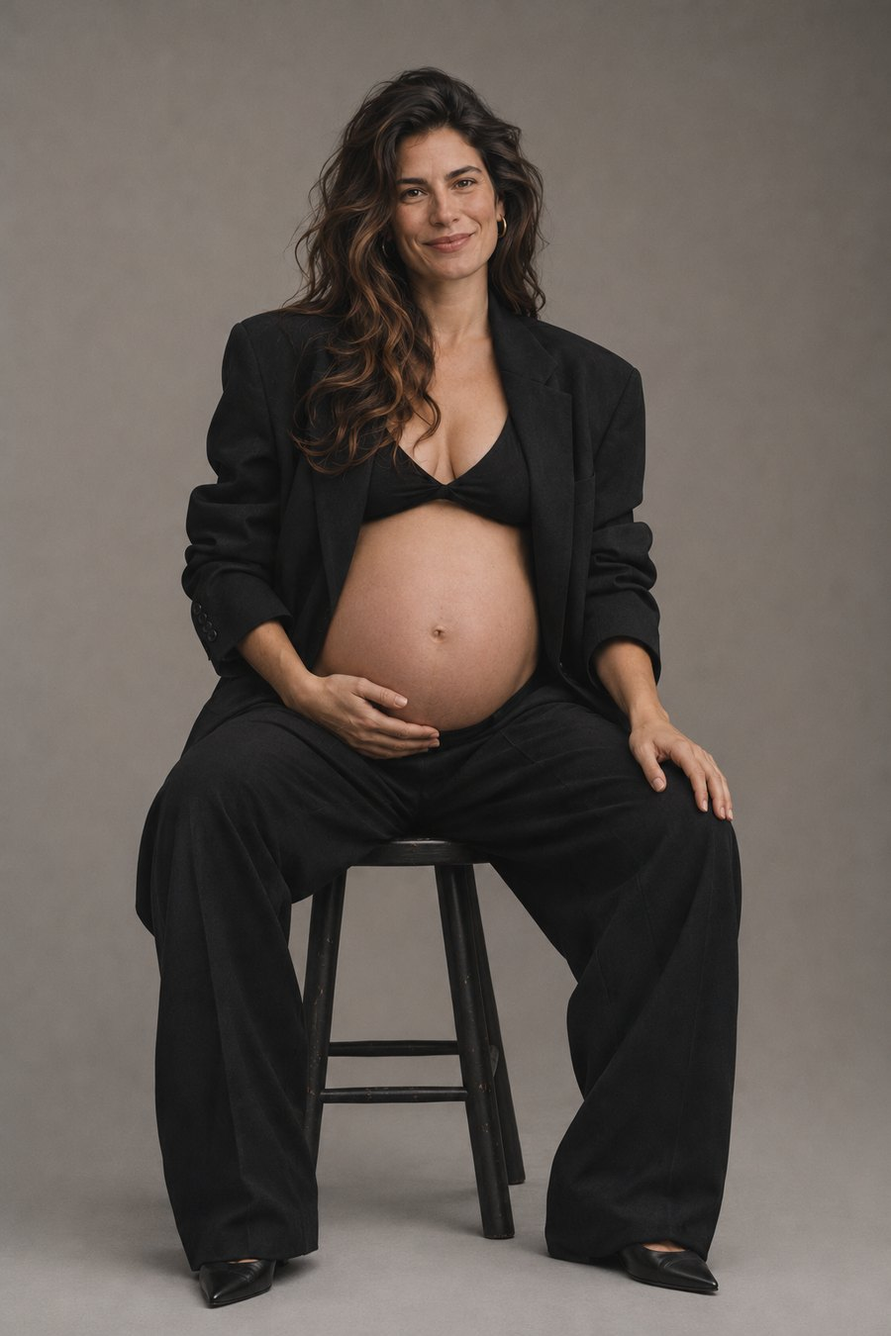
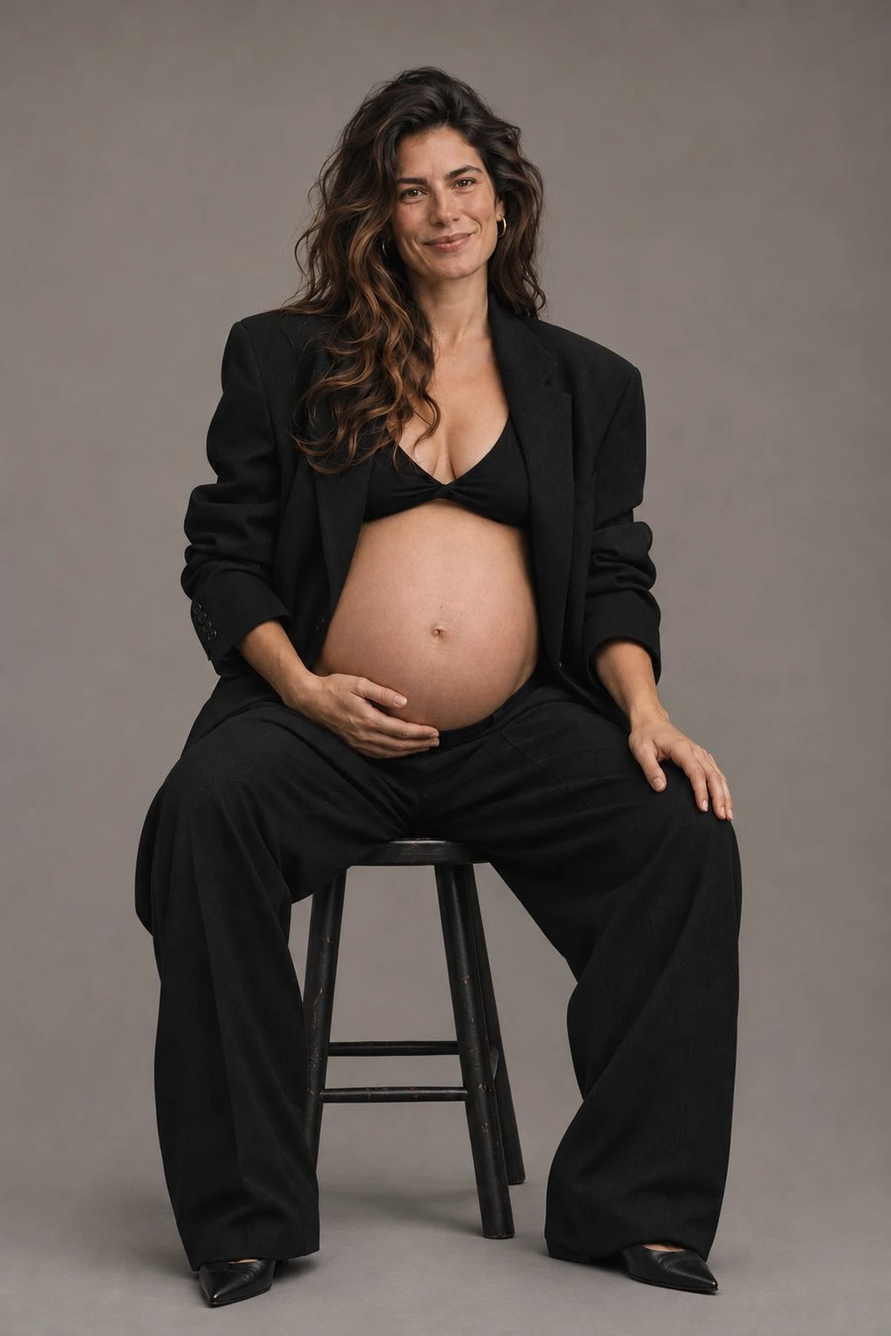
Беременность: цветные фото в пиджаке заменены на новые

Changed region(s): [[0.6222, 0.9333, 0.6844, 0.9644]]

diff --git a/site/kz/index.html b/site/kz/index.html
@@ -42,7 +42,7 @@ var t=document.querySelector('meta[name="theme-color"]');if(t)t.content=p[1]}();
 <link rel="preconnect" href="https://fonts.googleapis.com">
 <link rel="preconnect" href="https://fonts.gstatic.com" crossorigin>
 <link href="https://fonts.googleapis.com/css2?family=Inter:wght@400;500;600;700;800&family=Unbounded:wght@900&display=swap" rel="stylesheet">
-<link rel="stylesheet" href="../assets/style.css?v=1794802931">
+<link rel="stylesheet" href="../assets/style.css?v=1794803001">
 </head>
 <body id="top" class="is-home">
 <header class="top">
@@ -61,9 +61,9 @@ var t=document.querySelector('meta[name="theme-color"]');if(t)t.content=p[1]}();
 
 <div class="home" id="home">
 <section class="stage">
-  <div class="splash"><picture class="tile"><source media="(max-width: 760px)" srcset="../photos/home/02.jpg?v=1794802931"><img src="../photos/home/01.jpg?v=1794802931" alt="Veronika Kim"></picture></div>
-  <h1 class="wordmark"><picture><source media="(max-width: 760px)" data-srcset="../assets/wordmark-v1.png?v=1794802931" width="678" height="1692"><img data-src="../assets/wordmark-1.png?v=1794802931" alt="Veronika Kim" width="1692" height="678"></picture><script>!function(p){var n=document.documentElement.getAttribute("data-logo")||1,s=p.firstChild,i=p.lastChild;s.srcset=s.getAttribute("data-srcset").replace("-v1.","-v"+n+".");i.src=i.getAttribute("data-src").replace("-1.","-"+n+".")}(document.currentScript.previousElementSibling)</script><noscript><img src="../assets/wordmark-1.png?v=1794802931" alt="Veronika Kim" width="1692" height="678"></noscript></h1>
-  <div class="drift"><div class="drift-item"><a href="../kz/art/editorial/"><img src="../photos/drift/editorial.jpg?v=1794802931" width="315" height="560" alt="Авторлық портрет" decoding="async"></a></div><div class="drift-item"><a href="../kz/book/mountains/"><img src="../photos/drift/mountains.jpg?v=1794802931" width="560" height="373" alt="Таудағы дрон" decoding="async"></a></div><div class="drift-item"><a href="../kz/book/kids/"><img src="../photos/drift/kids.jpg?v=1794802931" width="400" height="560" alt="Балалар" decoding="async"></a></div><div class="drift-item"><a href="../kz/book/underwater/"><img src="../photos/drift/underwater.jpg?v=1794802931" width="448" height="560" alt="Су астында" decoding="async"></a></div><div class="drift-item"><a href="../kz/book/portrait/"><img src="../photos/drift/portrait.jpg?v=1794802931" width="420" height="560" alt="Портрет" decoding="async"></a></div><div class="drift-item"><a href="../kz/architecture/"><img src="../photos/drift/architecture.jpg?v=1794802931" width="560" height="405" alt="Сәулет және дрон" decoding="async"></a></div><div class="drift-item"><a href="../kz/book/love-story/"><img src="../photos/drift/love-story.jpg?v=1794802931" width="560" height="373" alt="Love story" decoding="async"></a></div><div class="drift-item"><a href="../kz/art/travel/"><img src="../photos/drift/travel.jpg?v=1794802931" width="560" height="373" alt="Саяхат" decoding="async"></a></div></div>
+  <div class="splash"><picture class="tile"><source media="(max-width: 760px)" srcset="../photos/home/02.jpg?v=1794803001"><img src="../photos/home/01.jpg?v=1794803001" alt="Veronika Kim"></picture></div>
+  <h1 class="wordmark"><picture><source media="(max-width: 760px)" data-srcset="../assets/wordmark-v1.png?v=1794803001" width="678" height="1692"><img data-src="../assets/wordmark-1.png?v=1794803001" alt="Veronika Kim" width="1692" height="678"></picture><script>!function(p){var n=document.documentElement.getAttribute("data-logo")||1,s=p.firstChild,i=p.lastChild;s.srcset=s.getAttribute("data-srcset").replace("-v1.","-v"+n+".");i.src=i.getAttribute("data-src").replace("-1.","-"+n+".")}(document.currentScript.previousElementSibling)</script><noscript><img src="../assets/wordmark-1.png?v=1794803001" alt="Veronika Kim" width="1692" height="678"></noscript></h1>
+  <div class="drift"><div class="drift-item"><a href="../kz/art/editorial/"><img src="../photos/drift/editorial.jpg?v=1794803001" width="315" height="560" alt="Авторлық портрет" decoding="async"></a></div><div class="drift-item"><a href="../kz/book/mountains/"><img src="../photos/drift/mountains.jpg?v=1794803001" width="560" height="373" alt="Таудағы дрон" decoding="async"></a></div><div class="drift-item"><a href="../kz/book/kids/"><img src="../photos/drift/kids.jpg?v=1794803001" width="400" height="560" alt="Балалар" decoding="async"></a></div><div class="drift-item"><a href="../kz/book/underwater/"><img src="../photos/drift/underwater.jpg?v=1794803001" width="448" height="560" alt="Су астында" decoding="async"></a></div><div class="drift-item"><a href="../kz/book/portrait/"><img src="../photos/drift/portrait.jpg?v=1794803001" width="420" height="560" alt="Портрет" decoding="async"></a></div><div class="drift-item"><a href="../kz/architecture/"><img src="../photos/drift/architecture.jpg?v=1794803001" width="560" height="405" alt="Сәулет және дрон" decoding="async"></a></div><div class="drift-item"><a href="../kz/book/love-story/"><img src="../photos/drift/love-story.jpg?v=1794803001" width="560" height="373" alt="Love story" decoding="async"></a></div><div class="drift-item"><a href="../kz/art/travel/"><img src="../photos/drift/travel.jpg?v=1794803001" width="560" height="373" alt="Саяхат" decoding="async"></a></div></div>
 </section>
 <div class="home-content">
 <p class="statement">Маған мінсіз адамдар керек емес. <em>Маған тірі адамдар қызық.</em></p>
@@ -90,6 +90,6 @@ var t=document.querySelector('meta[name="theme-color"]');if(t)t.content=p[1]}();
   <div class="foot-bottom"><span>© 2026 Veronika Kim. Барлық құқықтар қорғалған</span><a href="#top">Жоғарыға</a></div>
 </footer>
 <div class="lb" role="dialog" aria-modal="true"><span class="c"></span><button class="x">Жабу</button><button class="p">← Артқа</button><img alt=""><button class="nx">Алға →</button></div>
-<script src="../assets/app.js?v=1794802931"></script>
+<script src="../assets/app.js?v=1794803001"></script>
 </body>
 </html>

diff --git a/site/en/index.html b/site/en/index.html
@@ -42,7 +42,7 @@ var t=document.querySelector('meta[name="theme-color"]');if(t)t.content=p[1]}();
 <link rel="preconnect" href="https://fonts.googleapis.com">
 <link rel="preconnect" href="https://fonts.gstatic.com" crossorigin>
 <link href="https://fonts.googleapis.com/css2?family=Inter:wght@400;500;600;700;800&family=Unbounded:wght@900&display=swap" rel="stylesheet">
-<link rel="stylesheet" href="../assets/style.css?v=1794802931">
+<link rel="stylesheet" href="../assets/style.css?v=1794803001">
 </head>
 <body id="top" class="is-home">
 <header class="top">
@@ -61,9 +61,9 @@ var t=document.querySelector('meta[name="theme-color"]');if(t)t.content=p[1]}();
 
 <div class="home" id="home">
 <section class="stage">
-  <div class="splash"><picture class="tile"><source media="(max-width: 760px)" srcset="../photos/home/02.jpg?v=1794802931"><img src="../photos/home/01.jpg?v=1794802931" alt="Veronika Kim"></picture></div>
-  <h1 class="wordmark"><picture><source media="(max-width: 760px)" data-srcset="../assets/wordmark-v1.png?v=1794802931" width="678" height="1692"><img data-src="../assets/wordmark-1.png?v=1794802931" alt="Veronika Kim" width="1692" height="678"></picture><script>!function(p){var n=document.documentElement.getAttribute("data-logo")||1,s=p.firstChild,i=p.lastChild;s.srcset=s.getAttribute("data-srcset").replace("-v1.","-v"+n+".");i.src=i.getAttribute("data-src").replace("-1.","-"+n+".")}(document.currentScript.previousElementSibling)</script><noscript><img src="../assets/wordmark-1.png?v=1794802931" alt="Veronika Kim" width="1692" height="678"></noscript></h1>
-  <div class="drift"><div class="drift-item"><a href="../en/art/editorial/"><img src="../photos/drift/editorial.jpg?v=1794802931" width="315" height="560" alt="Art portrait" decoding="async"></a></div><div class="drift-item"><a href="../en/book/mountains/"><img src="../photos/drift/mountains.jpg?v=1794802931" width="560" height="373" alt="Mountains &amp; drone" decoding="async"></a></div><div class="drift-item"><a href="../en/book/kids/"><img src="../photos/drift/kids.jpg?v=1794802931" width="400" height="560" alt="Children" decoding="async"></a></div><div class="drift-item"><a href="../en/book/underwater/"><img src="../photos/drift/underwater.jpg?v=1794802931" width="448" height="560" alt="Underwater" decoding="async"></a></div><div class="drift-item"><a href="../en/book/portrait/"><img src="../photos/drift/portrait.jpg?v=1794802931" width="420" height="560" alt="Portrait" decoding="async"></a></div><div class="drift-item"><a href="../en/architecture/"><img src="../photos/drift/architecture.jpg?v=1794802931" width="560" height="405" alt="Architecture &amp; drone" decoding="async"></a></div><div class="drift-item"><a href="../en/book/love-story/"><img src="../photos/drift/love-story.jpg?v=1794802931" width="560" height="373" alt="Love story" decoding="async"></a></div><div class="drift-item"><a href="../en/art/travel/"><img src="../photos/drift/travel.jpg?v=1794802931" width="560" height="373" alt="Travel" decoding="async"></a></div></div>
+  <div class="splash"><picture class="tile"><source media="(max-width: 760px)" srcset="../photos/home/02.jpg?v=1794803001"><img src="../photos/home/01.jpg?v=1794803001" alt="Veronika Kim"></picture></div>
+  <h1 class="wordmark"><picture><source media="(max-width: 760px)" data-srcset="../assets/wordmark-v1.png?v=1794803001" width="678" height="1692"><img data-src="../assets/wordmark-1.png?v=1794803001" alt="Veronika Kim" width="1692" height="678"></picture><script>!function(p){var n=document.documentElement.getAttribute("data-logo")||1,s=p.firstChild,i=p.lastChild;s.srcset=s.getAttribute("data-srcset").replace("-v1.","-v"+n+".");i.src=i.getAttribute("data-src").replace("-1.","-"+n+".")}(document.currentScript.previousElementSibling)</script><noscript><img src="../assets/wordmark-1.png?v=1794803001" alt="Veronika Kim" width="1692" height="678"></noscript></h1>
+  <div class="drift"><div class="drift-item"><a href="../en/art/editorial/"><img src="../photos/drift/editorial.jpg?v=1794803001" width="315" height="560" alt="Art portrait" decoding="async"></a></div><div class="drift-item"><a href="../en/book/mountains/"><img src="../photos/drift/mountains.jpg?v=1794803001" width="560" height="373" alt="Mountains &amp; drone" decoding="async"></a></div><div class="drift-item"><a href="../en/book/kids/"><img src="../photos/drift/kids.jpg?v=1794803001" width="400" height="560" alt="Children" decoding="async"></a></div><div class="drift-item"><a href="../en/book/underwater/"><img src="../photos/drift/underwater.jpg?v=1794803001" width="448" height="560" alt="Underwater" decoding="async"></a></div><div class="drift-item"><a href="../en/book/portrait/"><img src="../photos/drift/portrait.jpg?v=1794803001" width="420" height="560" alt="Portrait" decoding="async"></a></div><div class="drift-item"><a href="../en/architecture/"><img src="../photos/drift/architecture.jpg?v=1794803001" width="560" height="405" alt="Architecture &amp; drone" decoding="async"></a></div><div class="drift-item"><a href="../en/book/love-story/"><img src="../photos/drift/love-story.jpg?v=1794803001" width="560" height="373" alt="Love story" decoding="async"></a></div><div class="drift-item"><a href="../en/art/travel/"><img src="../photos/drift/travel.jpg?v=1794803001" width="560" height="373" alt="Travel" decoding="async"></a></div></div>
 </section>
 <div class="home-content">
 <p class="statement">I don't need perfect people. <em>I'm interested in real ones.</em></p>
@@ -90,6 +90,6 @@ var t=document.querySelector('meta[name="theme-color"]');if(t)t.content=p[1]}();
   <div class="foot-bottom"><span>© 2026 Veronika Kim. All rights reserved</span><a href="#top">Back to top</a></div>
 </footer>
 <div class="lb" role="dialog" aria-modal="true"><span class="c"></span><button class="x">Close</button><button class="p">← Prev</button><img alt=""><button class="nx">Next →</button></div>
-<script src="../assets/app.js?v=1794802931"></script>
+<script src="../assets/app.js?v=1794803001"></script>
 </body>
 </html>

diff --git a/site/index.html b/site/index.html
@@ -42,7 +42,7 @@ var t=document.querySelector('meta[name="theme-color"]');if(t)t.content=p[1]}();
 <link rel="preconnect" href="https://fonts.googleapis.com">
 <link rel="preconnect" href="https://fonts.gstatic.com" crossorigin>
 <link href="https://fonts.googleapis.com/css2?family=Inter:wght@400;500;600;700;800&family=Unbounded:wght@900&display=swap" rel="stylesheet">
-<link rel="stylesheet" href="assets/style.css?v=1794802931">
+<link rel="stylesheet" href="assets/style.css?v=1794803001">
 </head>
 <body id="top" class="is-home">
 <header class="top">
@@ -61,9 +61,9 @@ var t=document.querySelector('meta[name="theme-color"]');if(t)t.content=p[1]}();
 
 <div class="home" id="home">
 <section class="stage">
-  <div class="splash"><picture class="tile"><source media="(max-width: 760px)" srcset="photos/home/02.jpg?v=1794802931"><img src="photos/home/01.jpg?v=1794802931" alt="Veronika Kim"></picture></div>
-  <h1 class="wordmark"><picture><source media="(max-width: 760px)" data-srcset="assets/wordmark-v1.png?v=1794802931" width="678" height="1692"><img data-src="assets/wordmark-1.png?v=1794802931" alt="Veronika Kim" width="1692" height="678"></picture><script>!function(p){var n=document.documentElement.getAttribute("data-logo")||1,s=p.firstChild,i=p.lastChild;s.srcset=s.getAttribute("data-srcset").replace("-v1.","-v"+n+".");i.src=i.getAttribute("data-src").replace("-1.","-"+n+".")}(document.currentScript.previousElementSibling)</script><noscript><img src="assets/wordmark-1.png?v=1794802931" alt="Veronika Kim" width="1692" height="678"></noscript></h1>
-  <div class="drift"><div class="drift-item"><a href="art/editorial/"><img src="photos/drift/editorial.jpg?v=1794802931" width="315" height="560" alt="Авторский портрет" decoding="async"></a></div><div class="drift-item"><a href="book/mountains/"><img src="photos/drift/mountains.jpg?v=1794802931" width="560" height="373" alt="Горы с дроном" decoding="async"></a></div><div class="drift-item"><a href="book/kids/"><img src="photos/drift/kids.jpg?v=1794802931" width="400" height="560" alt="Дети" decoding="async"></a></div><div class="drift-item"><a href="book/underwater/"><img src="photos/drift/underwater.jpg?v=1794802931" width="448" height="560" alt="Под водой" decoding="async"></a></div><div class="drift-item"><a href="book/portrait/"><img src="photos/drift/portrait.jpg?v=1794802931" width="420" height="560" alt="Портрет" decoding="async"></a></div><div class="drift-item"><a href="architecture/"><img src="photos/drift/architecture.jpg?v=1794802931" width="560" height="405" alt="Архитектура и дрон" decoding="async"></a></div><div class="drift-item"><a href="book/love-story/"><img src="photos/drift/love-story.jpg?v=1794802931" width="560" height="373" alt="Love story" decoding="async"></a></div><div class="drift-item"><a href="art/travel/"><img src="photos/drift/travel.jpg?v=1794802931" width="560" height="373" alt="Travel" decoding="async"></a></div></div>
+  <div class="splash"><picture class="tile"><source media="(max-width: 760px)" srcset="photos/home/02.jpg?v=1794803001"><img src="photos/home/01.jpg?v=1794803001" alt="Veronika Kim"></picture></div>
+  <h1 class="wordmark"><picture><source media="(max-width: 760px)" data-srcset="assets/wordmark-v1.png?v=1794803001" width="678" height="1692"><img data-src="assets/wordmark-1.png?v=1794803001" alt="Veronika Kim" width="1692" height="678"></picture><script>!function(p){var n=document.documentElement.getAttribute("data-logo")||1,s=p.firstChild,i=p.lastChild;s.srcset=s.getAttribute("data-srcset").replace("-v1.","-v"+n+".");i.src=i.getAttribute("data-src").replace("-1.","-"+n+".")}(document.currentScript.previousElementSibling)</script><noscript><img src="assets/wordmark-1.png?v=1794803001" alt="Veronika Kim" width="1692" height="678"></noscript></h1>
+  <div class="drift"><div class="drift-item"><a href="art/editorial/"><img src="photos/drift/editorial.jpg?v=1794803001" width="315" height="560" alt="Авторский портрет" decoding="async"></a></div><div class="drift-item"><a href="book/mountains/"><img src="photos/drift/mountains.jpg?v=1794803001" width="560" height="373" alt="Горы с дроном" decoding="async"></a></div><div class="drift-item"><a href="book/kids/"><img src="photos/drift/kids.jpg?v=1794803001" width="400" height="560" alt="Дети" decoding="async"></a></div><div class="drift-item"><a href="book/underwater/"><img src="photos/drift/underwater.jpg?v=1794803001" width="448" height="560" alt="Под водой" decoding="async"></a></div><div class="drift-item"><a href="book/portrait/"><img src="photos/drift/portrait.jpg?v=1794803001" width="420" height="560" alt="Портрет" decoding="async"></a></div><div class="drift-item"><a href="architecture/"><img src="photos/drift/architecture.jpg?v=1794803001" width="560" height="405" alt="Архитектура и дрон" decoding="async"></a></div><div class="drift-item"><a href="book/love-story/"><img src="photos/drift/love-story.jpg?v=1794803001" width="560" height="373" alt="Love story" decoding="async"></a></div><div class="drift-item"><a href="art/travel/"><img src="photos/drift/travel.jpg?v=1794803001" width="560" height="373" alt="Travel" decoding="async"></a></div></div>
 </section>
 <div class="home-content">
 <p class="statement">Мне не нужны идеальные люди. <em>Мне интересны живые.</em></p>
@@ -90,6 +90,6 @@ var t=document.querySelector('meta[name="theme-color"]');if(t)t.content=p[1]}();
   <div class="foot-bottom"><span>© 2026 Veronika Kim. Все права защищены</span><a href="#top">Наверх</a></div>
 </footer>
 <div class="lb" role="dialog" aria-modal="true"><span class="c"></span><button class="x">Закрыть</button><button class="p">← Назад</button><img alt=""><button class="nx">Вперёд →</button></div>
-<script src="assets/app.js?v=1794802931"></script>
+<script src="assets/app.js?v=1794803001"></script>
 </body>
 </html>

diff --git a/site/kz/art/editorial/index.html b/site/kz/art/editorial/index.html
@@ -42,7 +42,7 @@ var t=document.querySelector('meta[name="theme-color"]');if(t)t.content=p[1]}();
 <link rel="preconnect" href="https://fonts.googleapis.com">
 <link rel="preconnect" href="https://fonts.gstatic.com" crossorigin>
 <link href="https://fonts.googleapis.com/css2?family=Inter:wght@400;500;600;700;800&family=Unbounded:wght@900&display=swap" rel="stylesheet">
-<link rel="stylesheet" href="../../../assets/style.css?v=1794802931">
+<link rel="stylesheet" href="../../../assets/style.css?v=1794803001">
 </head>
 <body id="top">
 <header class="top">
@@ -70,6 +70,6 @@ var t=document.querySelector('meta[name="theme-color"]');if(t)t.content=p[1]}();
   <div class="foot-bottom"><span>© 2026 Veronika Kim. Барлық құқықтар қорғалған</span><a href="#top">Жоғарыға</a></div>
 </footer>
 <div class="lb" role="dialog" aria-modal="true"><span class="c"></span><button class="x">Жабу</button><button class="p">← Артқа</button><img alt=""><button class="nx">Алға →</button></div>
-<script src="../../../assets/app.js?v=1794802931"></script>
+<script src="../../../assets/app.js?v=1794803001"></script>
 </body>
 </html>

diff --git a/site/kz/art/film-darkroom/index.html b/site/kz/art/film-darkroom/index.html
@@ -42,7 +42,7 @@ var t=document.querySelector('meta[name="theme-color"]');if(t)t.content=p[1]}();
 <link rel="preconnect" href="https://fonts.googleapis.com">
 <link rel="preconnect" href="https://fonts.gstatic.com" crossorigin>
 <link href="https://fonts.googleapis.com/css2?family=Inter:wght@400;500;600;700;800&family=Unbounded:wght@900&display=swap" rel="stylesheet">
-<link rel="stylesheet" href="../../../assets/style.css?v=1794802931">
+<link rel="stylesheet" href="../../../assets/style.css?v=1794803001">
 </head>
 <body id="top">
 <header class="top">
@@ -70,6 +70,6 @@ var t=document.querySelector('meta[name="theme-color"]');if(t)t.content=p[1]}();
   <div class="foot-bottom"><span>© 2026 Veronika Kim. Барлық құқықтар қорғалған</span><a href="#top">Жоғарыға</a></div>
 </footer>
 <div class="lb" role="dialog" aria-modal="true"><span class="c"></span><button class="x">Жабу</button><button class="p">← Артқа</button><img alt=""><button class="nx">Алға →</button></div>
-<script src="../../../assets/app.js?v=1794802931"></script>
+<script src="../../../assets/app.js?v=1794803001"></script>
 </body>
 </html>

diff --git a/site/kz/art/thirst-for-life/index.html b/site/kz/art/thirst-for-life/index.html
@@ -42,7 +42,7 @@ var t=document.querySelector('meta[name="theme-color"]');if(t)t.content=p[1]}();
 <link rel="preconnect" href="https://fonts.googleapis.com">
 <link rel="preconnect" href="https://fonts.gstatic.com" crossorigin>
 <link href="https://fonts.googleapis.com/css2?family=Inter:wght@400;500;600;700;800&family=Unbounded:wght@900&display=swap" rel="stylesheet">
-<link rel="stylesheet" href="../../../assets/style.css?v=1794802931">
+<link rel="stylesheet" href="../../../assets/style.css?v=1794803001">
 </head>
 <body id="top">
 <header class="top">
@@ -70,6 +70,6 @@ var t=document.querySelector('meta[name="theme-color"]');if(t)t.content=p[1]}();
   <div class="foot-bottom"><span>© 2026 Veronika Kim. Барлық құқықтар қорғалған</span><a href="#top">Жоғарыға</a></div>
 </footer>
 <div class="lb" role="dialog" aria-modal="true"><span class="c"></span><button class="x">Жабу</button><button class="p">← Артқа</button><img alt=""><button class="nx">Алға →</button></div>
-<script src="../../../assets/app.js?v=1794802931"></script>
+<script src="../../../assets/app.js?v=1794803001"></script>
 </body>
 </html>

diff --git a/site/kz/art/travel/index.html b/site/kz/art/travel/index.html
@@ -42,7 +42,7 @@ var t=document.querySelector('meta[name="theme-color"]');if(t)t.content=p[1]}();
 <link rel="preconnect" href="https://fonts.googleapis.com">
 <link rel="preconnect" href="https://fonts.gstatic.com" crossorigin>
 <link href="https://fonts.googleapis.com/css2?family=Inter:wght@400;500;600;700;800&family=Unbounded:wght@900&display=swap" rel="stylesheet">
-<link rel="stylesheet" href="../../../assets/style.css?v=1794802931">
+<link rel="stylesheet" href="../../../assets/style.css?v=1794803001">
 </head>
 <body id="top">
 <header class="top">
@@ -70,6 +70,6 @@ var t=document.querySelector('meta[name="theme-color"]');if(t)t.content=p[1]}();
   <div class="foot-bottom"><span>© 2026 Veronika Kim. Барлық құқықтар қорғалған</span><a href="#top">Жоғарыға</a></div>
 </footer>
 <div class="lb" role="dialog" aria-modal="true"><span class="c"></span><button class="x">Жабу</button><button class="p">← Артқа</button><img alt=""><button class="nx">Алға →</button></div>
-<script src="../../../assets/app.js?v=1794802931"></script>
+<script src="../../../assets/app.js?v=1794803001"></script>
 </body>
 </html>

diff --git a/site/kz/book/family/index.html b/site/kz/book/family/index.html
@@ -42,7 +42,7 @@ var t=document.querySelector('meta[name="theme-color"]');if(t)t.content=p[1]}();
 <link rel="preconnect" href="https://fonts.googleapis.com">
 <link rel="preconnect" href="https://fonts.gstatic.com" crossorigin>
 <link href="https://fonts.googleapis.com/css2?family=Inter:wght@400;500;600;700;800&family=Unbounded:wght@900&display=swap" rel="stylesheet">
-<link rel="stylesheet" href="../../../assets/style.css?v=1794802931">
+<link rel="stylesheet" href="../../../assets/style.css?v=1794803001">
 </head>
 <body id="top">
 <header class="top">
@@ -70,6 +70,6 @@ var t=document.querySelector('meta[name="theme-color"]');if(t)t.content=p[1]}();
   <div class="foot-bottom"><span>© 2026 Veronika Kim. Барлық құқықтар қорғалған</span><a href="#top">Жоғарыға</a></div>
 </footer>
 <div class="lb" role="dialog" aria-modal="true"><span class="c"></span><button class="x">Жабу</button><button class="p">← Артқа</button><img alt=""><button class="nx">Алға →</button></div>
-<script src="../../../assets/app.js?v=1794802931"></script>
+<script src="../../../assets/app.js?v=1794803001"></script>
 </body>
 </html>

diff --git a/site/kz/book/kids/index.html b/site/kz/book/kids/index.html
@@ -42,7 +42,7 @@ var t=document.querySelector('meta[name="theme-color"]');if(t)t.content=p[1]}();
 <link rel="preconnect" href="https://fonts.googleapis.com">
 <link rel="preconnect" href="https://fonts.gstatic.com" crossorigin>
 <link href="https://fonts.googleapis.com/css2?family=Inter:wght@400;500;600;700;800&family=Unbounded:wght@900&display=swap" rel="stylesheet">
-<link rel="stylesheet" href="../../../assets/style.css?v=1794802931">
+<link rel="stylesheet" href="../../../assets/style.css?v=1794803001">
 </head>
 <body id="top">
 <header class="top">
@@ -70,6 +70,6 @@ var t=document.querySelector('meta[name="theme-color"]');if(t)t.content=p[1]}();
   <div class="foot-bottom"><span>© 2026 Veronika Kim. Барлық құқықтар қорғалған</span><a href="#top">Жоғарыға</a></div>
 </footer>
 <div class="lb" role="dialog" aria-modal="true"><span class="c"></span><button class="x">Жабу</button><button class="p">← Артқа</button><img alt=""><button class="nx">Алға →</button></div>
-<script src="../../../assets/app.js?v=1794802931"></script>
+<script src="../../../assets/app.js?v=1794803001"></script>
 </body>
 </html>

diff --git a/site/kz/book/love-story/index.html b/site/kz/book/love-story/index.html
@@ -42,7 +42,7 @@ var t=document.querySelector('meta[name="theme-color"]');if(t)t.content=p[1]}();
 <link rel="preconnect" href="https://fonts.googleapis.com">
 <link rel="preconnect" href="https://fonts.gstatic.com" crossorigin>
 <link href="https://fonts.googleapis.com/css2?family=Inter:wght@400;500;600;700;800&family=Unbounded:wght@900&display=swap" rel="stylesheet">
-<link rel="stylesheet" href="../../../assets/style.css?v=1794802931">
+<link rel="stylesheet" href="../../../assets/style.css?v=1794803001">
 </head>
 <body id="top">
 <header class="top">
@@ -70,6 +70,6 @@ var t=document.querySelector('meta[name="theme-color"]');if(t)t.content=p[1]}();
   <div class="foot-bottom"><span>© 2026 Veronika Kim. Барлық құқықтар қорғалған</span><a href="#top">Жоғарыға</a></div>
 </footer>
 <div class="lb" role="dialog" aria-modal="true"><span class="c"></span><button class="x">Жабу</button><button class="p">← Артқа</button><img alt=""><button class="nx">Алға →</button></div>
-<script src="../../../assets/app.js?v=1794802931"></script>
+<script src="../../../assets/app.js?v=1794803001"></script>
 </body>
 </html>

diff --git a/site/kz/book/mountains/index.html b/site/kz/book/mountains/index.html
@@ -42,7 +42,7 @@ var t=document.querySelector('meta[name="theme-color"]');if(t)t.content=p[1]}();
 <link rel="preconnect" href="https://fonts.googleapis.com">
 <link rel="preconnect" href="https://fonts.gstatic.com" crossorigin>
 <link href="https://fonts.googleapis.com/css2?family=Inter:wght@400;500;600;700;800&family=Unbounded:wght@900&display=swap" rel="stylesheet">
-<link rel="stylesheet" href="../../../assets/style.css?v=1794802931">
+<link rel="stylesheet" href="../../../assets/style.css?v=1794803001">
 </head>
 <body id="top">
 <header class="top">
@@ -70,6 +70,6 @@ var t=document.querySelector('meta[name="theme-color"]');if(t)t.content=p[1]}();
   <div class="foot-bottom"><span>© 2026 Veronika Kim. Барлық құқықтар қорғалған</span><a href="#top">Жоғарыға</a></div>
 </footer>
 <div class="lb" role="dialog" aria-modal="true"><span class="c"></span><button class="x">Жабу</button><button class="p">← Артқа</button><img alt=""><button class="nx">Алға →</button></div>
-<script src="../../../assets/app.js?v=1794802931"></script>
+<script src="../../../assets/app.js?v=1794803001"></script>
 </body>
 </html>

diff --git a/site/kz/book/portrait/index.html b/site/kz/book/portrait/index.html
@@ -42,7 +42,7 @@ var t=document.querySelector('meta[name="theme-color"]');if(t)t.content=p[1]}();
 <link rel="preconnect" href="https://fonts.googleapis.com">
 <link rel="preconnect" href="https://fonts.gstatic.com" crossorigin>
 <link href="https://fonts.googleapis.com/css2?family=Inter:wght@400;500;600;700;800&family=Unbounded:wght@900&display=swap" rel="stylesheet">
-<link rel="stylesheet" href="../../../assets/style.css?v=1794802931">
+<link rel="stylesheet" href="../../../assets/style.css?v=1794803001">
 </head>
 <body id="top">
 <header class="top">
@@ -70,6 +70,6 @@ var t=document.querySelector('meta[name="theme-color"]');if(t)t.content=p[1]}();
   <div class="foot-bottom"><span>© 2026 Veronika Kim. Барлық құқықтар қорғалған</span><a href="#top">Жоғарыға</a></div>
 </footer>
 <div class="lb" role="dialog" aria-modal="true"><span class="c"></span><button class="x">Жабу</button><button class="p">← Артқа</button><img alt=""><button class="nx">Алға →</button></div>
-<script src="../../../assets/app.js?v=1794802931"></script>
+<script src="../../../assets/app.js?v=1794803001"></script>
 </body>
 </html>
